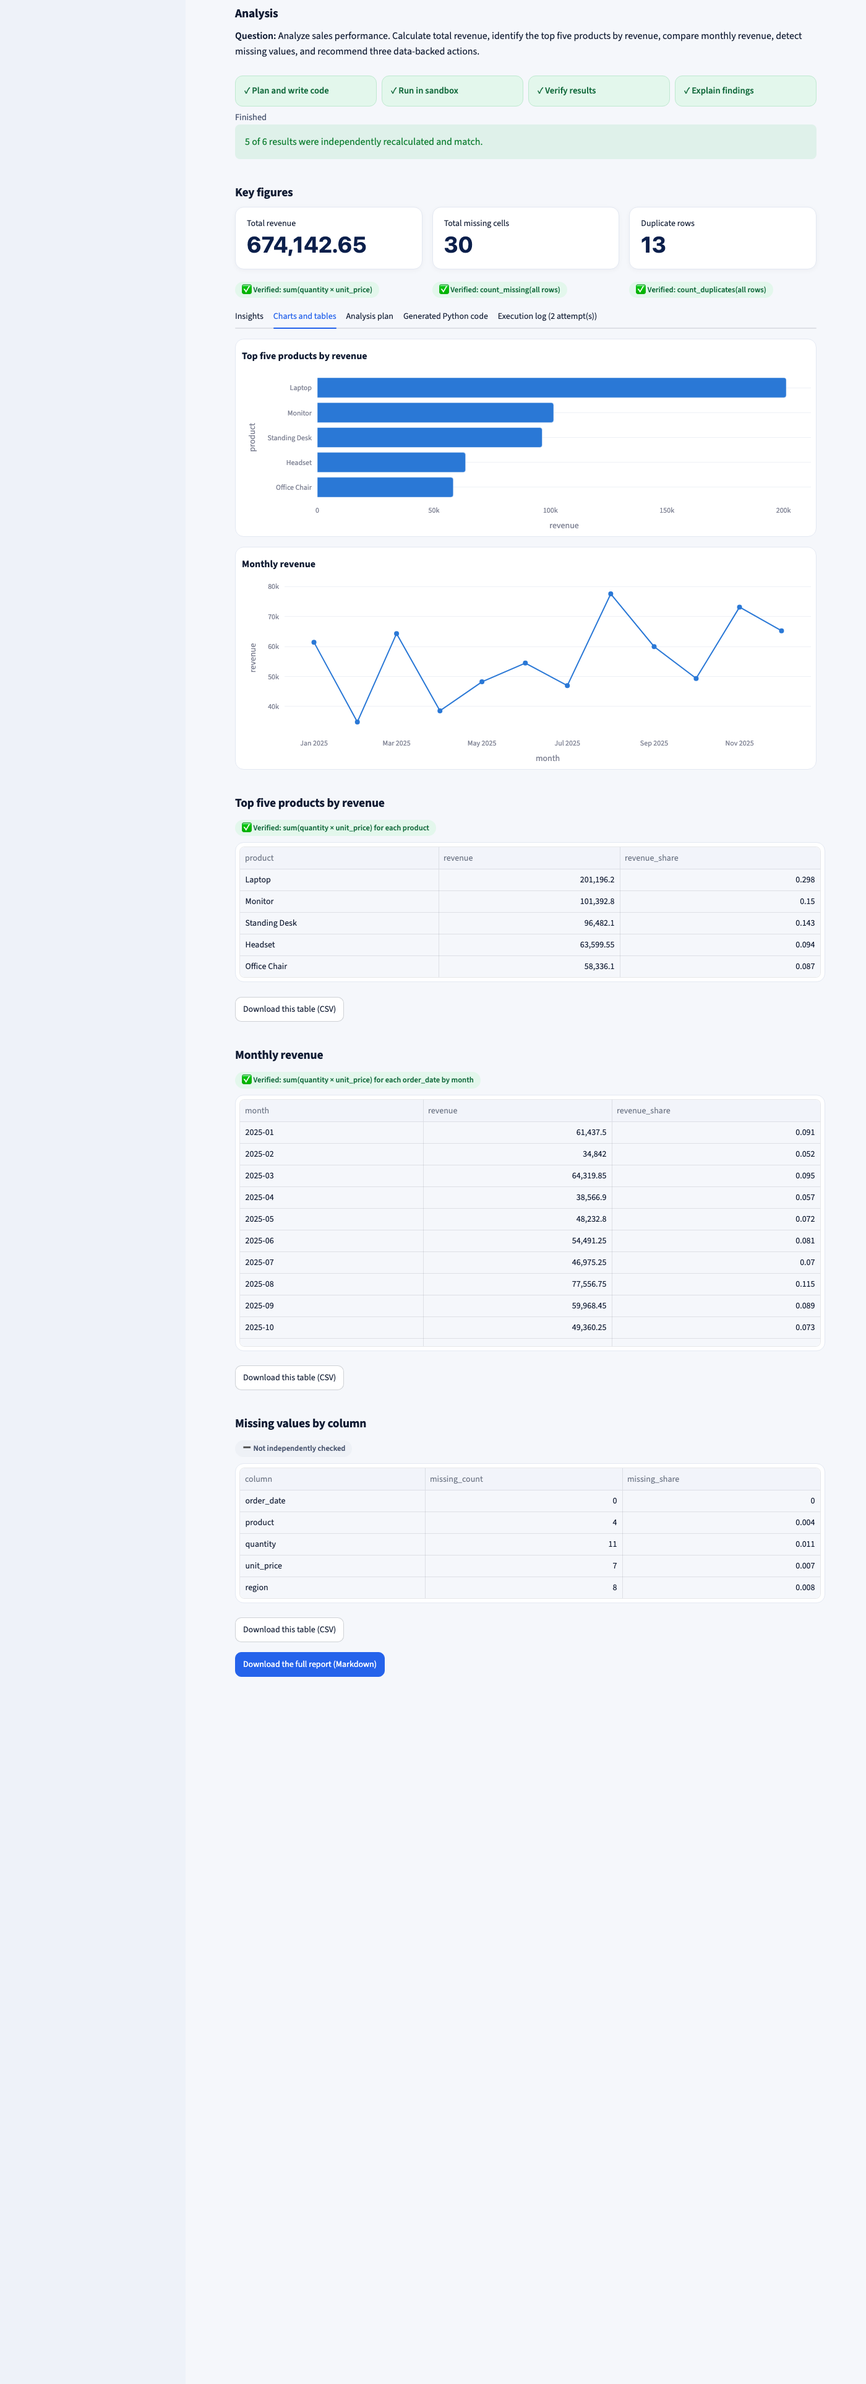
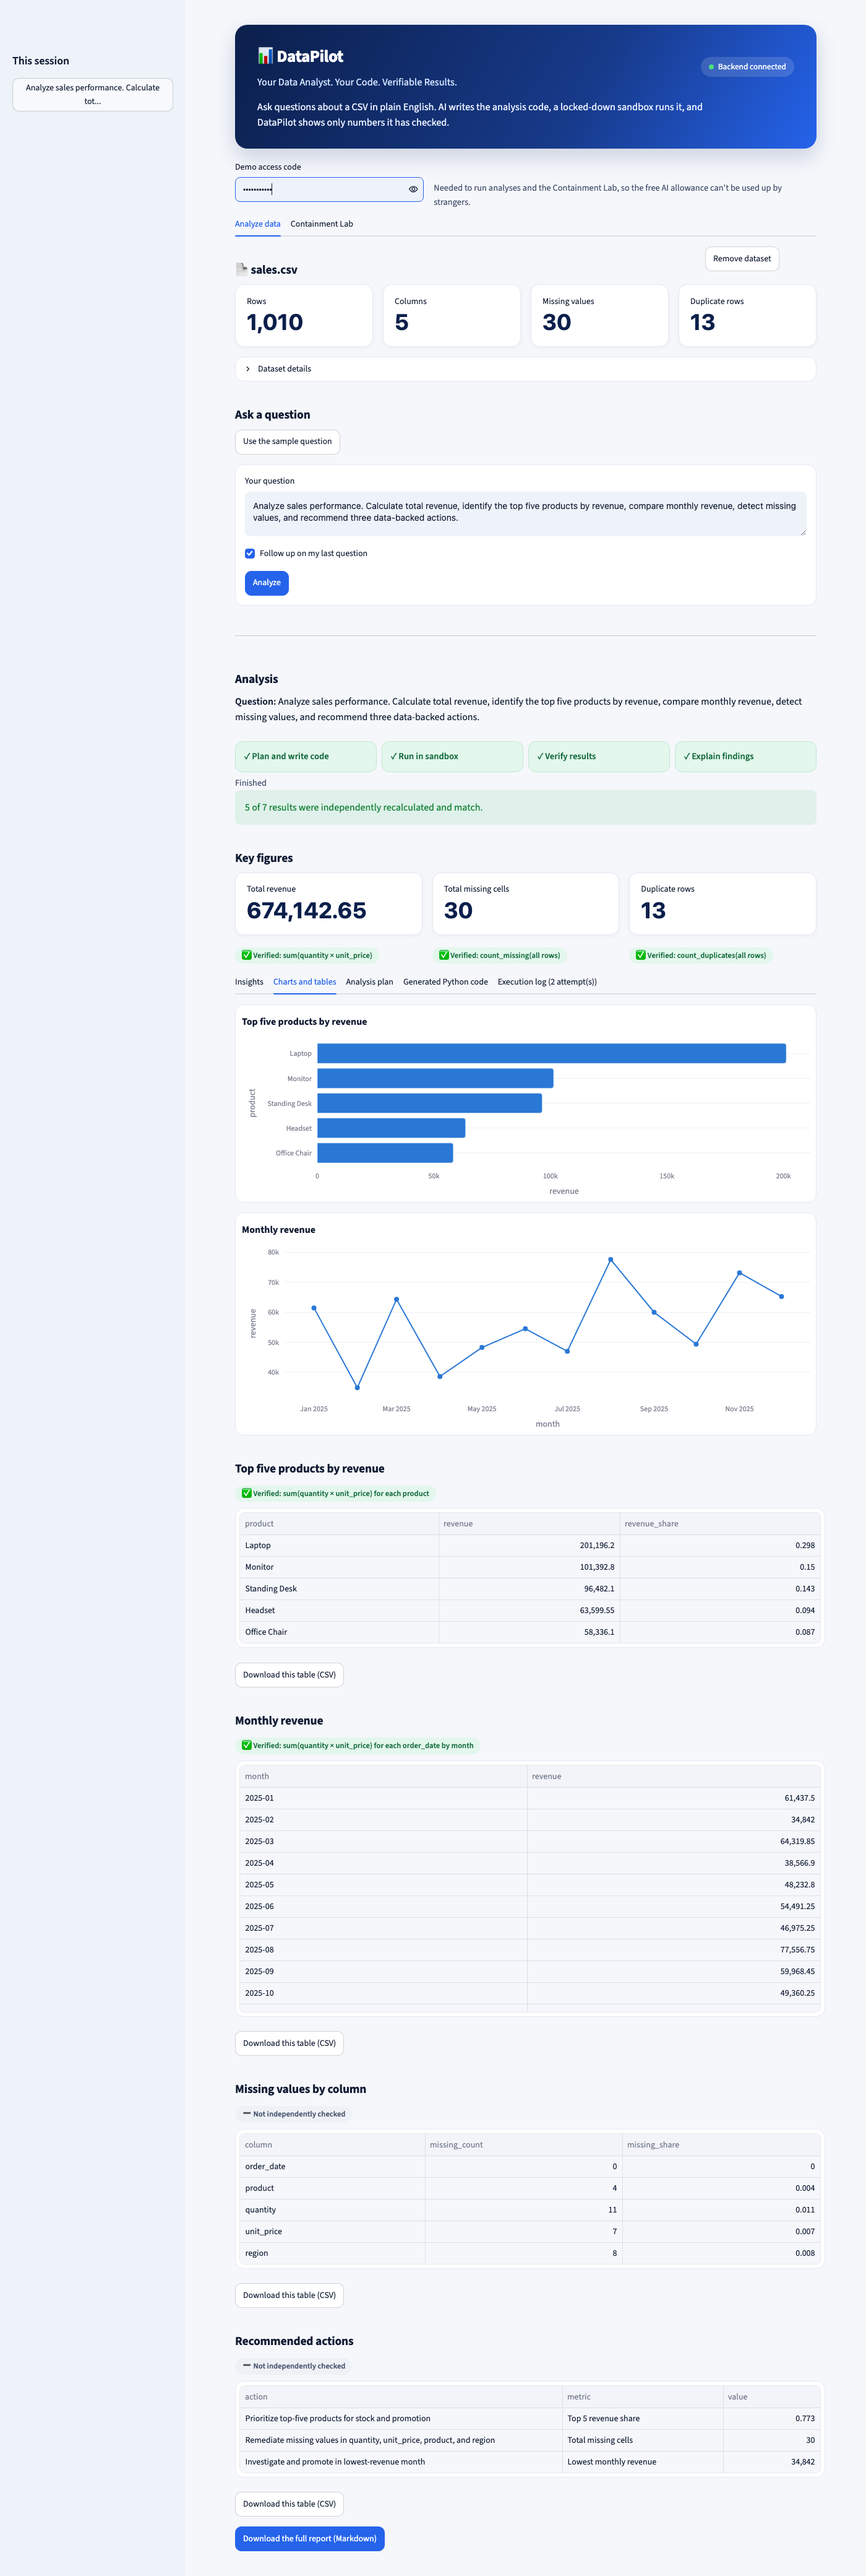
Update screenshots of the redesigned interface

diff --git a/docs/BUILD_STATUS.md b/docs/BUILD_STATUS.md
@@ -2,7 +2,7 @@
 
 **Last updated:** Nov 5, 2026
 
-The interface was redesigned after the results below, with a custom theme, cards, tabs, and a progress tracker. It was re-tested in real Chrome, with the demo question (65 seconds) and the Containment Lab (all 7 contained), with 0 page exceptions. Main test suite: 276 passed, 19 skipped (the skipped ones are the Docker attack tests, which run on the server).
+The interface was redesigned after the results below, with a custom theme, cards, tabs, and a progress tracker. It was re-tested in real Chrome, with the demo question (65 seconds) and the Containment Lab (all 7 contained), with 0 page exceptions. Main test suite: 278 passed, 19 skipped (the skipped ones are the Docker attack tests, which run on the server).
 
 **The app is built, deployed, and tested at http://66.42.63.156.** The hackathon submission isn't done yet.
 

diff --git a/README.md b/README.md
@@ -29,6 +29,8 @@ In testing, the AI's first attempt reported 48 missing cells when the real count
 4. See the plan, code, logs, verified figures, interactive charts, insights, and downloads.
 5. Open the **Containment Lab** tab to watch the sandbox stop real attacks.
 
+![Interactive charts and verified tables](docs/screenshots/charts.png)
+
 ![The Containment Lab showing contained attacks](docs/screenshots/containment-lab.png)
 
 ## How it works
